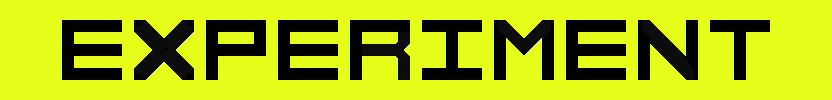
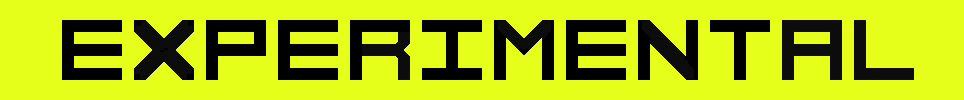
Label changes

Changed region(s): [[0.125, 0.18, 0.9688, 0.81], [0.0625, 0.18, 0.0938, 0.81]]

diff --git a/custom-maps/index.html b/custom-maps/index.html
@@ -97,9 +97,6 @@
             </div>
         </div>
         <div class="map_tile" data-nosnippet>
-            <div class="zero-size">
-                <img draggable="false" class="map-name-label" src="../public/custommaps/experiment-label.png">
-            </div>
             <img draggable="false" class="map_tile_preview" src="../public/custommaps/dustarenaa.jpg"><p class="map_tile_name">Dust Arena A</p>
             <p class="map_tile_author">fredanie2005</p>
             <div class="map-tile-buttons">
@@ -214,9 +211,6 @@
             </div>
         </div>
         <div class="map_tile" data-nosnippet>
-            <div class="zero-size">
-                <img draggable="false" class="map-name-label" src="../public/custommaps/experiment-label.png">
-            </div>
             <img draggable="false" class="map_tile_preview" src="../public/custommaps/lavaarenac.png"><p class="map_tile_name">Lava Arena C</p>
             <p class="map_tile_author">RainlessSky</p>
             <div class="map-tile-buttons">
@@ -235,9 +229,6 @@
                 </div>
             </div>
         <div class="map_tile" data-nosnippet>
-            <div class="zero-size">
-                <img draggable="false" class="map-name-label" src="../public/custommaps/experiment-label.png">
-            </div>
             <img draggable="false" class="map_tile_preview" src="../public/custommaps/soltecwarehouse.png"><p class="map_tile_name">Soltec Warehouse</p>
             <p class="map_tile_author">RainlessSky</p>
             <div class="map-tile-buttons">
